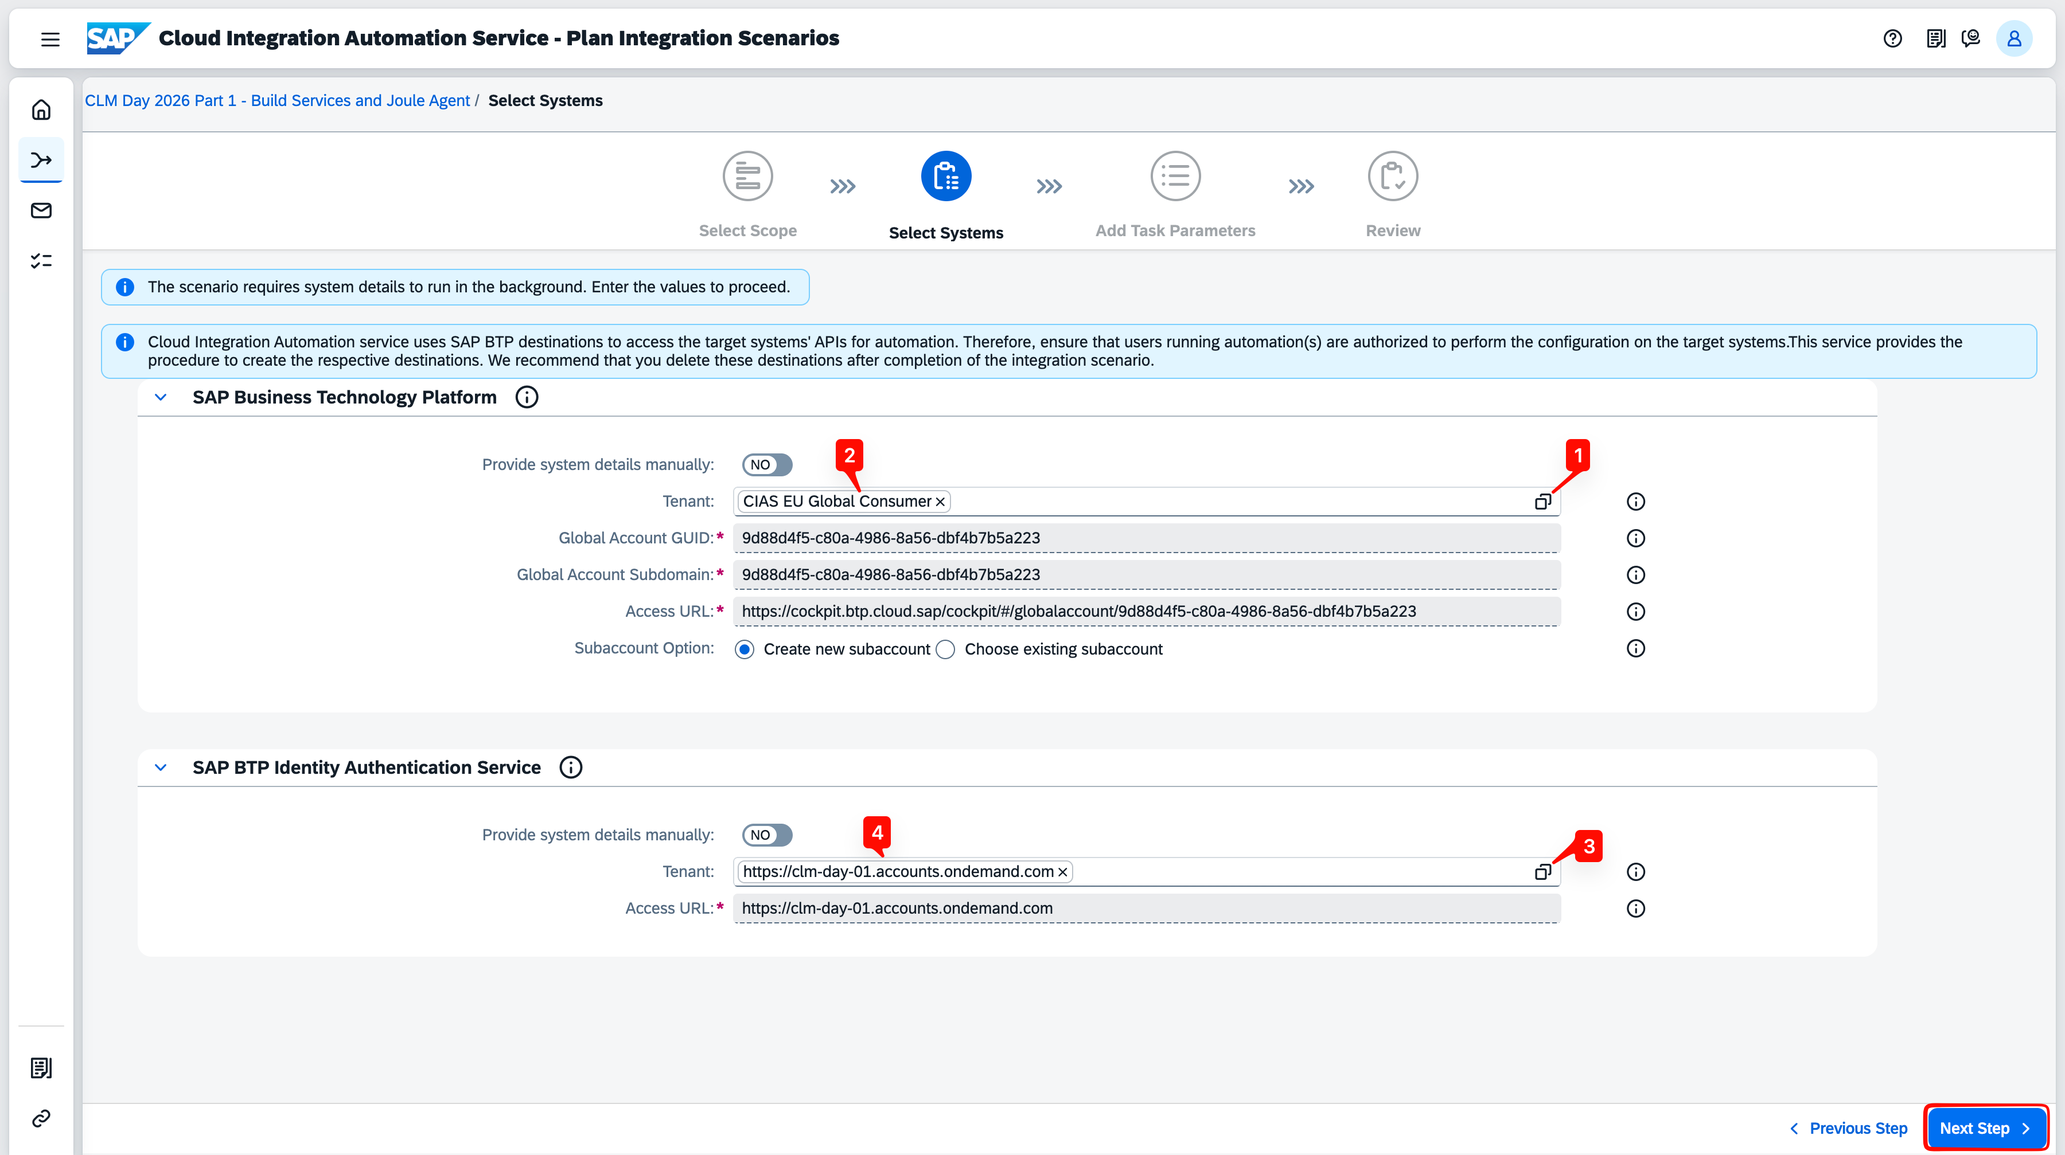
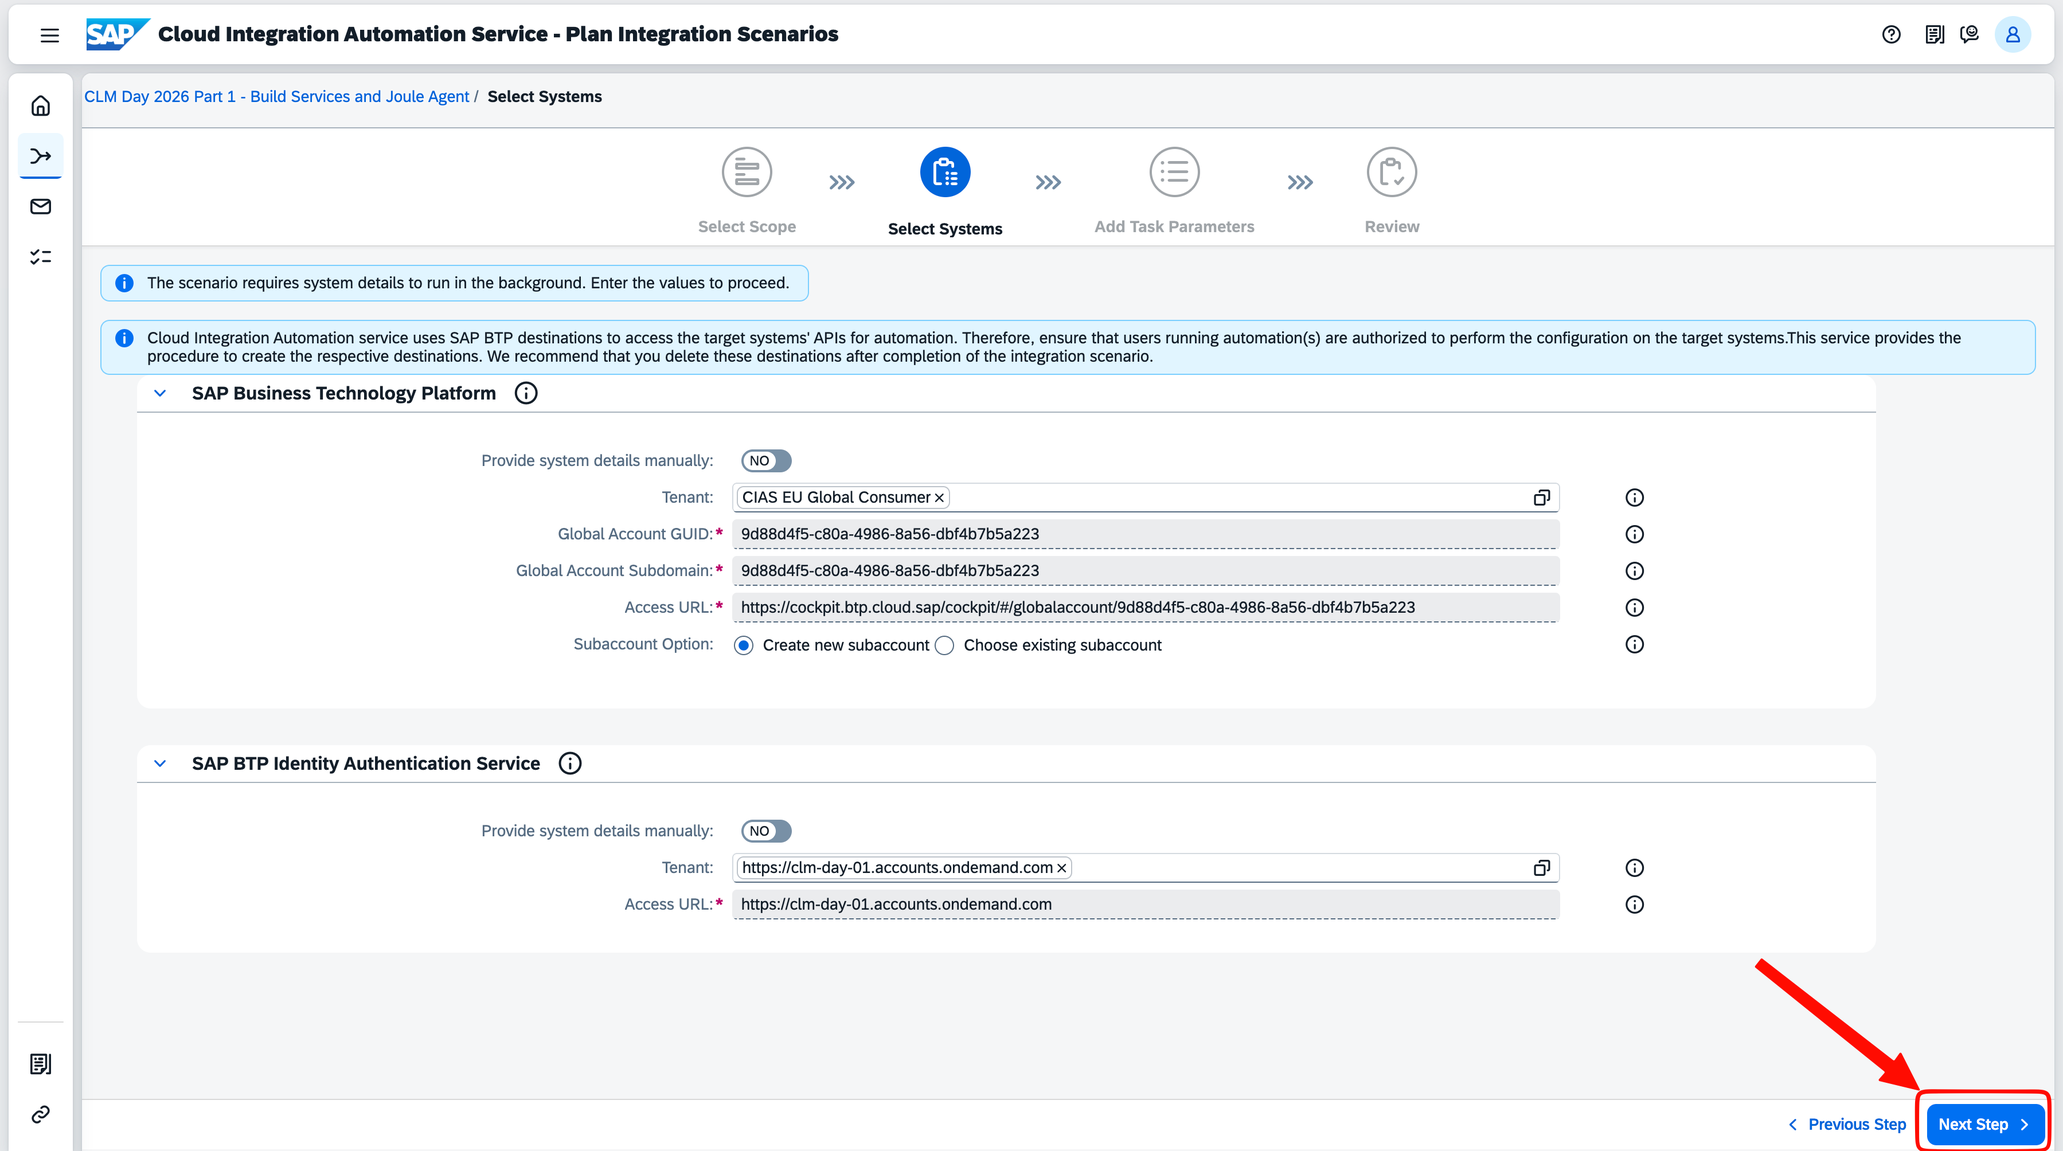
Update READMEs, refresh images, replace xlsx with inline data tables
- Updated root README: improved formatting, blockquote note, linked resources
- Updated ex2 README: rewrote Select Systems step, fixed note formatting
- Replaced full dataset Excel file with inline sample tables (first 10 orders) in info/README
- Added plan_handson_6_a/b/c/d images for system selection steps
- Refreshed cias, subaccount, monitoring, plan, and scope images

diff --git a/info/README.md b/info/README.md
@@ -36,18 +36,219 @@ The service exposes five related entities:
 
 ---
 
-## Full Dataset
+## Sample Dataset
 
-To explore the complete data and verify the agent's responses, download the Excel file below. It contains one sheet per entity with all records from the backend service.
+The tables below show the first 10 maintenance orders and all related records connected to them — operations, components, materials, and stock levels.
 
-📥 [Download maintenance_backend_data.xlsx](maintenance_backend_data.xlsx)
+### MaintenanceOrder
 
-The file contains:
-- **50 Maintenance Orders** (statuses: OPEN, IN PROGRESS, COMPLETE)
-- **87 Operations** across all orders
-- **110 Components** linking operations to materials
-- **60 Materials** (spare parts and consumables)
-- **100 Stock Level** records across warehouses M001 and M002
+| ID | Order Number | Description | Status | Scheduled Start | Scheduled End | Work Center |
+|----|-------------|-------------|--------|----------------|--------------|-------------|
+| 1 | 40000001 | SUBST VALV SEG | OPEN | 2025-09-01 | 2025-09-07 | AAAA.AA1 |
+| 2 | 40000002 | SUBST PUMP HOSE | OPEN | 2025-09-02 | 2025-09-08 | BBBB.BB2 |
+| 3 | 40000003 | REPLC BATTERY UNIT | OPEN | 2025-09-03 | 2025-09-09 | CCCC.CC3 |
+| 4 | 40000004 | CHK VALV FUNCTN | OPEN | 2025-09-04 | 2025-09-10 | DDDD.DD4 |
+| 5 | 40000005 | UPDT SYS SFTWRE | OPEN | 2025-09-05 | 2025-09-11 | EEEE.EE5 |
+| 6 | 40000006 | RPR CNTRL PANEL | OPEN | 2025-09-06 | 2025-09-12 | FFFF.FF6 |
+| 7 | 40000007 | INSPECT PIPE LNE | OPEN | 2025-09-07 | 2025-09-13 | AAAA.AA1 |
+| 8 | 40000008 | SERV MOTOR UNIT | OPEN | 2025-09-08 | 2025-09-14 | BBBB.BB2 |
+| 9 | 40000009 | TEST SAFETY PROG | OPEN | 2025-09-09 | 2025-09-15 | CCCC.CC3 |
+| 10 | 40000010 | LUBE MECH BRNGS | OPEN | 2025-09-10 | 2025-09-16 | DDDD.DD4 |
+
+### Operation
+
+| ID | Code | Type | Description | Status | Duration Time | Duration Unit | Maintenance Order ID | Equipment ID |
+|----|------|------|-------------|--------|--------------|--------------|---------------------|-------------|
+| 1 | 10 | Operation | INSP ELE FUNC VAC SYSTEM | OPEN | 105 | MIN | 1 | 1 |
+| 2 | 20 | Operation | RPL BATTERY | OPEN | 120 | MIN | 1 | 1 |
+| 3 | 10 | Operation | INSP AIR FLOW | OPEN | 180 | MIN | 2 | 2 |
+| 4 | 10 | Operation | CHECK OIL LEVEL | IN PROGRESS | 6 | H | 3 | 3 |
+| 5 | 10 | Operation | TEST PRESSURE SENSOR | OPEN | 4 | H | 4 | 4 |
+| 6 | 20 | Operation | CALIBRATE TEMP CONTROL | OPEN | 90 | MIN | 4 | 4 |
+| 7 | 30 | Operation | INSPECT EXHAUST | OPEN | 210 | MIN | 4 | 4 |
+| 8 | 10 | Operation | MODULE INTEGRITY TEST | OPEN | 5 | H | 5 | 5 |
+| 9 | 20 | Operation | REPLACE HOSES | OPEN | 200 | MIN | 5 | 5 |
+| 10 | 10 | Operation | VALVE CHECK | OPEN | 120 | MIN | 6 | 6 |
+| 11 | 20 | Operation | INSPECT HYD LINES | OPEN | 150 | MIN | 6 | 6 |
+| 12 | 30 | Operation | CLEAN NOZZLES | OPEN | 4 | H | 6 | 6 |
+| 13 | 10 | Operation | CHK SAFETY SWI | OPEN | 5 | H | 7 | 7 |
+| 14 | 10 | Operation | VACUUM PRESS TEST | IN PROGRESS | 140 | MIN | 8 | 8 |
+| 15 | 20 | Operation | INSPECT MOTOR COIL | OPEN | 3 | H | 8 | 8 |
+| 16 | 10 | Operation | INSPECT BEARING WEAR | OPEN | 180 | MIN | 9 | 9 |
+| 17 | 20 | Operation | REPLACE MOTOR UNIT | OPEN | 6 | H | 9 | 9 |
+| 18 | 30 | Operation | TEST MOTOR FUNC | OPEN | 5 | H | 9 | 9 |
+| 19 | 10 | Operation | LUBE VALVE STEMS | OPEN | 3 | H | 10 | 10 |
+
+### Component
+
+| ID | Quantity | Material ID | Operation ID |
+|----|----------|-------------|-------------|
+| 1 | 1.5 | 1 | 1 |
+| 2 | 2.0 | 2 | 1 |
+| 3 | 1.2 | 3 | 2 |
+| 4 | 0.8 | 4 | 3 |
+| 5 | 1.3 | 5 | 3 |
+| 6 | 0.7 | 6 | 3 |
+| 7 | 2.5 | 7 | 4 |
+| 8 | 1.9 | 8 | 4 |
+| 9 | 0.6 | 9 | 5 |
+| 10 | 2.0 | 10 | 5 |
+| 11 | 3.0 | 11 | 5 |
+| 12 | 1.8 | 12 | 6 |
+| 13 | 1.0 | 13 | 6 |
+| 14 | 1.2 | 14 | 6 |
+| 15 | 2.3 | 15 | 7 |
+| 16 | 0.9 | 16 | 7 |
+| 17 | 2.1 | 17 | 7 |
+| 18 | 1.5 | 18 | 8 |
+| 19 | 1.4 | 19 | 8 |
+| 20 | 2.5 | 20 | 8 |
+| 21 | 0.7 | 21 | 9 |
+| 22 | 3.0 | 22 | 10 |
+| 23 | 1.8 | 23 | 10 |
+| 24 | 2.0 | 24 | 11 |
+| 25 | 1.1 | 25 | 12 |
+| 26 | 1.2 | 26 | 12 |
+| 27 | 0.9 | 27 | 13 |
+| 28 | 1.5 | 28 | 14 |
+| 29 | 1.3 | 29 | 14 |
+| 30 | 2.0 | 30 | 14 |
+| 31 | 2.2 | 31 | 15 |
+| 32 | 2.5 | 32 | 15 |
+| 33 | 1.7 | 33 | 16 |
+| 34 | 1.4 | 34 | 16 |
+| 35 | 1.0 | 35 | 16 |
+| 36 | 1.9 | 36 | 17 |
+| 37 | 1.1 | 37 | 18 |
+| 38 | 1.2 | 38 | 18 |
+| 39 | 1.0 | 39 | 19 |
+
+### Material
+
+| ID | Material Code | Material Description |
+|----|--------------|---------------------|
+| 1 | 300000000001 | Vacuum Pump System |
+| 2 | 300000000002 | Battery Replacement Kit |
+| 3 | 300000000003 | Oil Level Sensor |
+| 4 | 300000000004 | Pressure Sensor Module |
+| 5 | 300000000005 | Calibration Tool Set |
+| 6 | 300000000006 | Exhaust Inspection Mirror |
+| 7 | 300000000007 | Motor Coil Set |
+| 8 | 300000000008 | Hose Replacement Kit |
+| 9 | 300000000009 | Valve Maintenance Kit |
+| 10 | 300000000010 | Hydraulic Line Inspector |
+| 11 | 300000000011 | Nozzle Cleaning Kit |
+| 12 | 300000000012 | Safety Switch Components |
+| 13 | 300000000013 | Vacuum Test Adapter |
+| 14 | 300000000014 | Motor Bearing Set |
+| 15 | 300000000015 | Fluid Circuit Analyzer |
+| 16 | 300000000016 | Bolt Fastener Kit |
+| 17 | 300000000017 | Belt Wear Gauge |
+| 18 | 300000000018 | Plate Resecure Fittings |
+| 19 | 300000000019 | Load Bearing Tester |
+| 20 | 300000000020 | Battery Carrier Parts |
+| 21 | 300000000021 | Gasket Installation Kit |
+| 22 | 300000000022 | Control Valve Calibrator |
+| 23 | 300000000023 | Cable Connection Kit |
+| 24 | 300000000024 | Sensor Output Tester |
+| 25 | 300000000025 | Coolant Circuit Replacement |
+| 26 | 300000000026 | Air Vent Maintenance Kit |
+| 27 | 300000000027 | Dashboard Light Bulbs |
+| 28 | 300000000028 | Bike Coupling Set |
+| 29 | 300000000029 | Charge System Components |
+| 30 | 300000000030 | Vent Unit Replacement Set |
+| 31 | 300000000031 | Gain Adjustment Tool |
+| 32 | 300000000032 | E-Mag Coil Set |
+| 33 | 300000000033 | Shock Absorber Tester |
+| 34 | 300000000034 | Air Filter System Parts |
+| 35 | 300000000035 | Connector Alignment Kit |
+| 36 | 300000000036 | Motor Output Checker |
+| 37 | 300000000037 | Alarm Configuration Kit |
+| 38 | 300000000038 | Coil Winding Tester |
+| 39 | 300000000039 | Lever System Adjuster |
+
+### StockLevel
+
+| ID | Warehouse | Available Quantity | Material ID |
+|----|-----------|--------------------|------------|
+| 1 | M001 | 0.0 | 1 |
+| 2 | M002 | 800.5 | 1 |
+| 3 | M001 | 550.3 | 2 |
+| 4 | M002 | 120.0 | 2 |
+| 5 | M001 | 1350.7 | 3 |
+| 6 | M002 | 0.0 | 3 |
+| 7 | M001 | 450.0 | 4 |
+| 8 | M002 | 0.0 | 4 |
+| 9 | M001 | 950.6 | 5 |
+| 10 | M002 | 500.3 | 5 |
+| 11 | M001 | 0.0 | 6 |
+| 12 | M002 | 0.0 | 6 |
+| 13 | M001 | 0.0 | 7 |
+| 14 | M002 | 670.5 | 7 |
+| 15 | M001 | 330.8 | 8 |
+| 16 | M002 | 1450.0 | 8 |
+| 17 | M001 | 896.7 | 9 |
+| 18 | M002 | 0.0 | 9 |
+| 19 | M001 | 1200.4 | 10 |
+| 20 | M002 | 650.2 | 10 |
+| 21 | M001 | 0.0 | 11 |
+| 22 | M002 | 920.0 | 11 |
+| 23 | M001 | 559.3 | 12 |
+| 24 | M002 | 1490.9 | 12 |
+| 25 | M001 | 520.0 | 13 |
+| 26 | M002 | 300.4 | 13 |
+| 27 | M001 | 0.0 | 14 |
+| 28 | M002 | 0.0 | 14 |
+| 29 | M001 | 212.7 | 15 |
+| 30 | M002 | 100.0 | 15 |
+| 31 | M001 | 0.0 | 16 |
+| 32 | M002 | 1234.4 | 16 |
+| 33 | M001 | 678.3 | 17 |
+| 34 | M002 | 500.4 | 17 |
+| 35 | M001 | 1550.6 | 18 |
+| 36 | M002 | 0.0 | 18 |
+| 37 | M001 | 0.0 | 19 |
+| 38 | M002 | 800.0 | 19 |
+| 39 | M001 | 900.1 | 20 |
+| 40 | M002 | 450.2 | 20 |
+| 41 | M001 | 780.5 | 21 |
+| 42 | M002 | 960.8 | 21 |
+| 43 | M001 | 1344.8 | 22 |
+| 44 | M002 | 0.0 | 22 |
+| 45 | M001 | 0.0 | 23 |
+| 46 | M002 | 700.2 | 23 |
+| 47 | M001 | 987.5 | 24 |
+| 48 | M002 | 600.2 | 24 |
+| 49 | M001 | 287.5 | 25 |
+| 50 | M002 | 1000.0 | 25 |
+| 51 | M001 | 900.7 | 26 |
+| 52 | M002 | 0.0 | 26 |
+| 53 | M001 | 778.4 | 27 |
+| 54 | M002 | 450.0 | 27 |
+| 55 | M001 | 1256.9 | 28 |
+| 56 | M002 | 375.5 | 28 |
+| 57 | M001 | 0.0 | 29 |
+| 58 | M002 | 650.0 | 29 |
+| 59 | M001 | 1050.9 | 30 |
+| 60 | M002 | 450.1 | 30 |
+| 61 | M001 | 0.0 | 31 |
+| 62 | M002 | 0.0 | 31 |
+| 63 | M001 | 839.0 | 32 |
+| 64 | M002 | 123.0 | 32 |
+| 65 | M001 | 900.5 | 33 |
+| 66 | M002 | 320.5 | 33 |
+| 67 | M001 | 1590.6 | 34 |
+| 68 | M002 | 600.0 | 34 |
+| 69 | M001 | 750.0 | 35 |
+| 70 | M002 | 0.0 | 35 |
+| 71 | M001 | 545.3 | 36 |
+| 72 | M002 | 123.2 | 36 |
+| 73 | M001 | 901.2 | 37 |
+| 74 | M002 | 567.0 | 37 |
+| 75 | M001 | 670.0 | 38 |
+| 76 | M002 | 1234.6 | 38 |
+| 77 | M001 | 0.0 | 39 |
+| 78 | M002 | 0.0 | 39 |
 
 ---
 

diff --git a/ex2/README.md b/ex2/README.md
@@ -1,18 +1,20 @@
-# Exercise 2 - Generation of Workflow
-In this exercise, you will __generate a workflow__ for the Integration scenario - __CLM Day 2026 Part 1 - Build Services and Joule Agent__.
+# Exercise 2 - Generate the Workflow
+In this exercise, you will __generate a workflow__ for the Integration scenario - __CLM Day 2026 Part 1 - Provision SAP Build services and create a custom Joule agent.__.
 
 ## Access the Cloud Integration Automation Service
 
 * Click on the <a href="https://emea.cockpit.btp.cloud.sap/cockpit/?idp=clm-day-01.accounts.ondemand.com#/globalaccount/9d88d4f5-c80a-4986-8a56-dbf4b7b5a223" target="_blank">BTP Global Account</a>
-* Click on the Subaccount
-  ![subaccount](../images/subaccount.png)
+* On the search bar, enter XX and click on the **Search** icon. You will see your subaccount listed in the search results as **CIAS CLM XX**. Click on the subaccount name to open it.
+> **Note**: Replace **XX** with your user number.
+
+![subaccount](../images/subaccount.png)
 * Click on **Services > Instances and Subscriptions**
 * Click on the icon against Cloud Integration Automation service to launch the application
   ![cias](../images/cias.png)
 
 ## Plan Integration Scenarios
 
-1. On the Cloud Integration Automation Service home screen, select the **Plan Integration Scenarios** tile.
+1. On the Cloud Integration Automation Service Overview screen, select the **Plan Integration Scenarios** tile.
 
    ![scenario selection](../images/plan_handson_1.png)
 
@@ -20,11 +22,11 @@ In this exercise, you will __generate a workflow__ for the Integration scenario 
 
    ![scenario selection](../images/plan_handson_2.png)
 
-3. Select **CLM Day 2026 Part 1 - Provision SAP Build services and create a custom Joule agent.** A panel opens on the right showing the scenario description and a **Scenario Options** dropdown.
+3. Select **CLM Day 2026 Part 1 - Provision SAP Build services and create a custom Joule agent.** A panel opens on the right showing the scenario description.
 
    ![scenario selection](../images/plan_handson_3.png)
 
-4. In the **Scenario Options** dropdown, ensure **Provision Build Services and Create a Joule Agent** is selected, then click **Start**.
+4. Read the scenario description and then click **Start**.
 
    ![system selection](../images/plan_handson_4.png)
 
@@ -33,14 +35,19 @@ In this exercise, you will __generate a workflow__ for the Integration scenario 
    ![scope selection](../images/plan_handson_5.png)
 
 6. In the **Select Systems** step, select the systems to be used for provisioning:
-   - Click the value help icon **(1)** next to **SAP Business Technology Platform**, search for **CIAS EU**, and select **CIAS EU Global Consumer** **(2)**.
-   - Click the value help icon **(3)** next to **SAP BTP Identity Authentication Service**, search for **clm-day-01**, and select **https://clm-day-01.accounts.ondemand.com** **(4)**.
-
+   - Click the value help icon next to the **SAP Business Technology Platform** Tenant field.
+     ![system details](../images/plan_handson_6_a.png)
+   - A **System Selection** dialog opens. Search for **CIAS EU**, then click on the row — it will be highlighted and shown as **Selected System: CIAS EU Global Consumer** at the bottom. Click **OK**.
+     ![system details](../images/plan_handson_6_b.png)
+   - Click the value help icon next to the **SAP BTP Identity Authentication Service** Tenant field.
+     ![system details](../images/plan_handson_6_c.png)
+   - A **System Selection** dialog opens. Search for **clm-day-01**, then click on the row — it will be highlighted and shown as **Selected System: https://clm-day-01.accounts.ondemand.com** at the bottom. Click **OK**.
+     ![system details](../images/plan_handson_6_d.png)
    Once both systems are selected, click **Next Step**.
 
    ![system details](../images/plan_handson_6.png)
 
-7. If a **Systems Details** popup appears warning about different landscapes, review the details and click **Proceed**.
+7. A **Systems Details** popup will appear warning about different landscapes, review the details and click **Proceed**.
 
    ![systems details popup](../images/plan_handson_7.png)
 
@@ -50,7 +57,8 @@ In this exercise, you will __generate a workflow__ for the Integration scenario 
 
    **Subaccount Subdomain (2):** joule-agent-XX
 
-   <span style="color:red">**Note**</span> - replace **XX** with your user number. Click **Next Step**.
+   Click **Next Step**.
+> **Note**: Replace **XX** with your user number. Keep the region as **Europe (Frankfurt) - eu10** and leave the Reuse Existing Subaccount GUID parameter blank.
 
    ![task parameters](../images/plan_handson_8.png)
 
@@ -66,4 +74,4 @@ You've now _successfully_ **generated the workflow**. The success screen shows y
 
 In the next exercise, we will monitor the workflow execution and complete the integration setup.
 
-**Continue to - [Exercise 3 - Monitoring Configuration Setup](../ex3/README.md)**
+**Continue to - [Exercise 3 - Monitor and Complete the Setup](../ex3/README.md)**

diff --git a/ex1/README.md b/ex1/README.md
@@ -1,5 +1,5 @@
 
-# Exercise 1: Getting Started
+# Exercise 1: Overview of Cloud Integration Automation Service
 
 In this exercise, you will get an overview of the capabilities of Cloud Integration Automation Service which will be helpful for the successful completion of the hands-on exercise.
 
@@ -11,9 +11,9 @@ The Cloud Integration Automation Service homepage consists of three tiles:
 
 **Choose and plan for an integration scenario**
 
-This section contains the integration scenarios that are onboarded into Cloud Integration Automation Service. You can choose based on the Cloud or Hybrid setup and generate a workflow. It has an integrated landscape discovery that prompts you to select the systems you own. In the case of a fully automated scenario, you can run the whole setup in the background as well.
+This section contains the integration scenarios that are onboarded into Cloud Integration Automation Service. You can choose based on the Cloud or Hybrid setup and generate a workflow. It has an integrated landscape discovery that prompts you to select the systems you own. In the case of a fully automated scenario, the whole setup runs in background mode.
 
-**Note: In the next exercise, we will take a deeper look into the functions of the Planning app.**
+>**Note:** In the next exercise, we will take a deeper look into the functions of the Planning app.
 
 ![plan](../images/plan_overiew_1.png)
 
@@ -45,10 +45,10 @@ There are 2 kinds of workflow tasks you may encounter while executing a workflow
 
 Automation tasks perform the configuration automatically based on the parameters **(1)** provided. You have two ways to run the automation:
 
-- **Start Automation (2a)** — triggers the automation interactively. The status badge **(3)** next to the parameter section updates as the automation runs. Once it completes, choose **Complete Task (4)** to move to the next task.
+- **Start Automation (2a)** — triggers the automation interactively. The status badge **(3)** next to the parameter section updates as the automation runs. Once it completes successfully, choose **Complete Task (4)** to move to the next task.
 - **Continue (2b)** — runs the automation in the background and automatically completes the task when done. No further action is needed.
 
-The **Manual Instructions** section below the parameters serves as an alternative if the automation cannot be used.
+The **Manual Instructions** section below the parameters can be used to manually perform the tasks that the automation executes.
 
 **For the hands-on session, in case of an error, please reach out to colleagues for support.**
 
@@ -71,4 +71,4 @@ Monitor Integration Scenarios provides a comprehensive view of all workflow inst
 
 Let us now proceed to the next exercise, where we will generate the workflow.
 
-**Continue to - [Exercise 2 - Generate a workflow](../ex2/README.md)**
+**Continue to - [Exercise 2 - Generate the Workflow](../ex2/README.md)**

diff --git a/README.md b/README.md
@@ -4,8 +4,8 @@
 
 This session introduces participants to the **Cloud Integration Automation Service**, where you will gain hands-on experience implementing automated scenarios on **SAP BTP**. The hands-on is split into two parts:
 
-- **Part 1** – **CLM Day 2026 Part 1 - Provision SAP Build services and create a custom Joule agent**: provision SAP Build services and create a custom **Joule agent** that helps maintenance planners validate whether a maintenance order can be fulfilled based on current material stock.
-- **Part 2** *(Optional — if time permits)* – **CLM Day 2026 Part 2 - Set up a SAP Fiori launchpad site in SAP Build Work Zone and publish apps to it**: build a **SAP Fiori launchpad site** using SAP Build Work Zone, standard edition.
+- **Part 1 - Provision SAP Build services and create a custom Joule agent**: A solution to provision SAP Build services and create a custom **Joule agent** that helps maintenance planners validate whether a maintenance order can be fulfilled based on current material stock.
+- **Part 2 *(Optional — if time permits)* – Set up a SAP Fiori launchpad site in SAP Build Work Zone and publish apps to it**: A solution to build a **SAP Fiori launchpad site** using SAP Build Work Zone, standard edition.
 
 **<ins>Scenario Description</ins>**
 
@@ -42,7 +42,7 @@ In this hands-on session, Cloud Integration Automation Service provisions the fo
 
 You can log in to the above application/tenants with credentials assigned to you. 
 
-1. __Username:__ Use the following email ID (`XX will be assigned to you during the hands-on exercise`)
+1. __Username:__ Use the following email ID (`XX will be the user number assigned to you during the hands-on exercise`)
 
     ```
     userXX@sapclm.org
@@ -54,7 +54,7 @@ You can log in to the above application/tenants with credentials assigned to you
     The password will be provided to you during the hands-on session
     ```
 
-**NOTE:** While logging in to any of the above systems/tenants (**OPTIONAL**), select the **clm-day-01.accounts.ondemand.com** IDP (if prompted).
+> **Note:** While logging in to any of the above systems/tenants (**OPTIONAL**), select the **clm-day-01.accounts.ondemand.com** IDP (if prompted).
 
 ![Teched IDP](images/idp_login.png)
 

diff --git a/ex3/README.md b/ex3/README.md
@@ -17,7 +17,7 @@ In this exercise, you will **monitor** the automated provisioning tasks, verify 
 
    ![BTP Sign In](../images/monitoring_handson_3.png)
 
-4. In the BTP Cockpit, navigate to **Account Explorer**. You can see the newly created subaccount listed under **Subaccounts**.
+4. In the BTP Cockpit, navigate to **Account Explorer**. Search for your user number and you will see the newly created subaccount listed under **Subaccounts**.
 
    ![BTP Global Account](../images/monitoring_handson_4.png)
 
